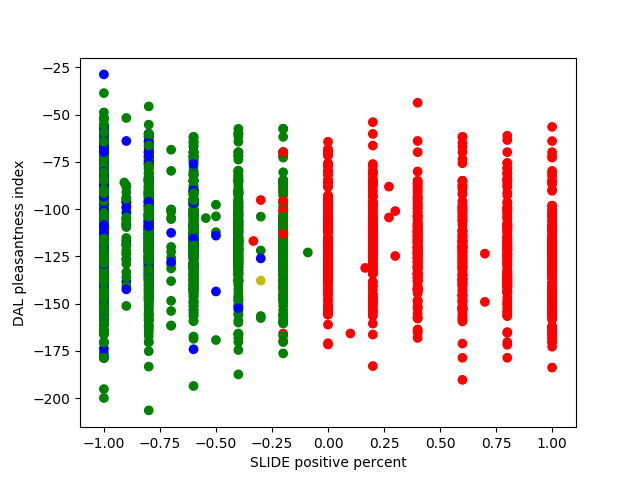
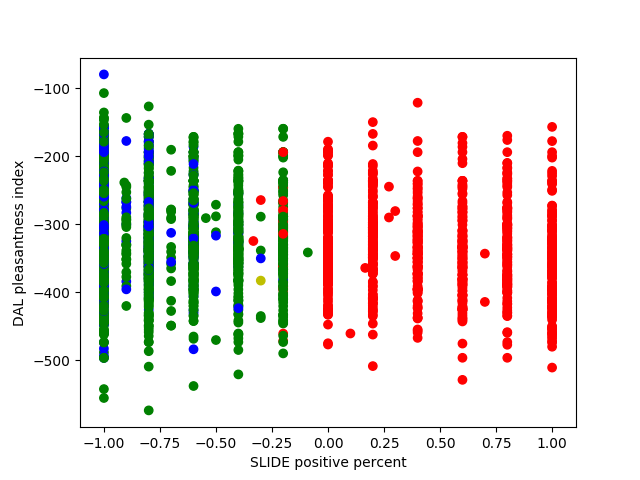
fix dal normalization and parseidioms

diff --git a/parseidioms.py b/parseidioms.py
@@ -1,0 +1,29 @@
+# parse idioms from SLIDE
+
+# function to get separate text file of just idioms
+def just_idioms():
+	with open('./IBM_Debater_(R)_SLIDE_LREC_2018/idiomLexicon.tsv', 'r') as lexicon:
+		with open('./IBM_Debater_(R)_SLIDE_LREC_2018/idioms.txt', 'w') as outfile:
+			next(lexicon)
+			for l in lexicon:
+				outfile.write(l.split('\t')[0] + '\n')
+
+
+# check for idioms in claims data
+# claims data is space-separated [claim] [label]
+def check_idioms():
+	with open('./IBM_Debater_(R)_SLIDE_LREC_2018/idioms.txt', 'r') as idioms:
+		with open('claimnonclaim.txt', 'r') as claims:
+			with open('idiomclaims.txt', 'w') as outfile:
+				for i in idioms:
+#					print(i)
+					for c in claims:
+						print(c)
+						idiom = i.split('t')[0]
+						if idiom in c.split()[0]:
+							outfile.write(c + '\t' + idiom)
+
+
+if __name__ == "__main__":
+	#just_idioms()
+	check_idioms()

diff --git a/slide.py b/slide.py
@@ -141,7 +141,7 @@ def normalize_dal(p):
 	meanp, stdevp = 1.85, 0.36
 	for x in range(len(p)):
 		p[x] = (p[x] - meanp) / stdevp
-		p[x] *= abs(p[x] - meanp)
+		p[x] *= (abs(p[x] - meanp) / stdevp)
 
 	return p
 
@@ -186,7 +186,7 @@ def parse():
 				idioms.append(l[0])
 				s_senti.append(sentiment[l[10]])
 
-				print(l[0], s, d, l[10])
+				#print(l[0], s, d, l[10])
 
 	plt.scatter(s_scores, d_scores, c=s_senti)
 	plt.xlabel("SLIDE positive percent")
